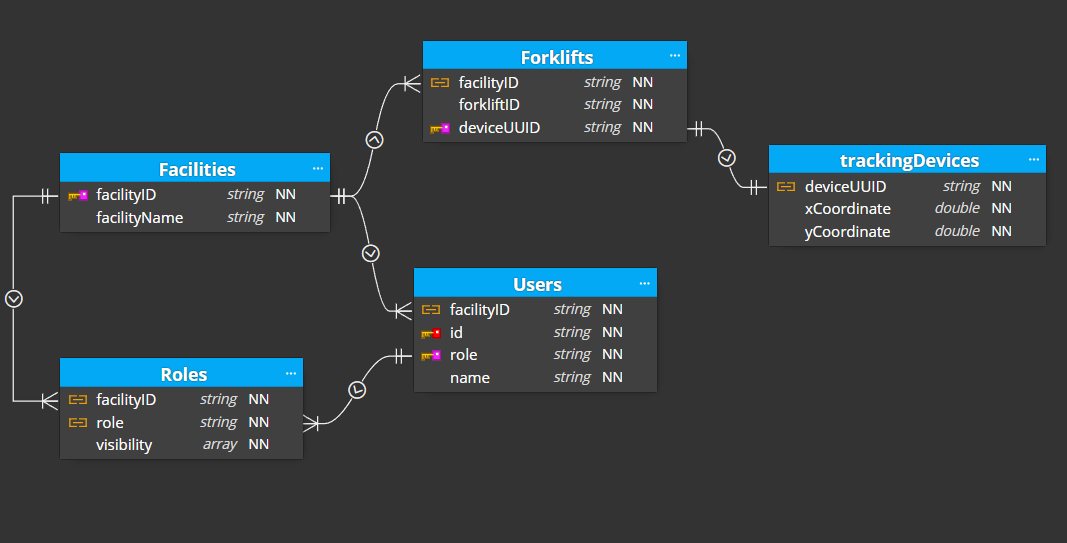
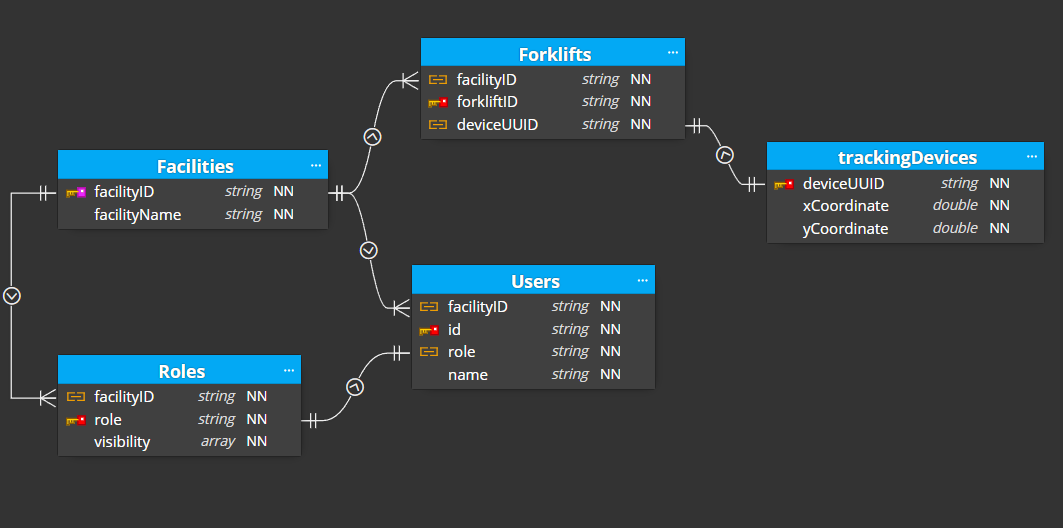
Update readme

diff --git a/README.md b/README.md
@@ -52,6 +52,9 @@ thus preventing security breaches such as man-in-the-middle attacks.
 ![Image Caption](SoftwareArchitecture.png)
 
 ## Design the Entity Relationship Diagrams.
+
+
+The database schema for the system could be modeled using the following Entity Relationship Diagram as shown below:
 <br><br>
 
 ![Image Caption](EntityRelationshipDiagram.png)
